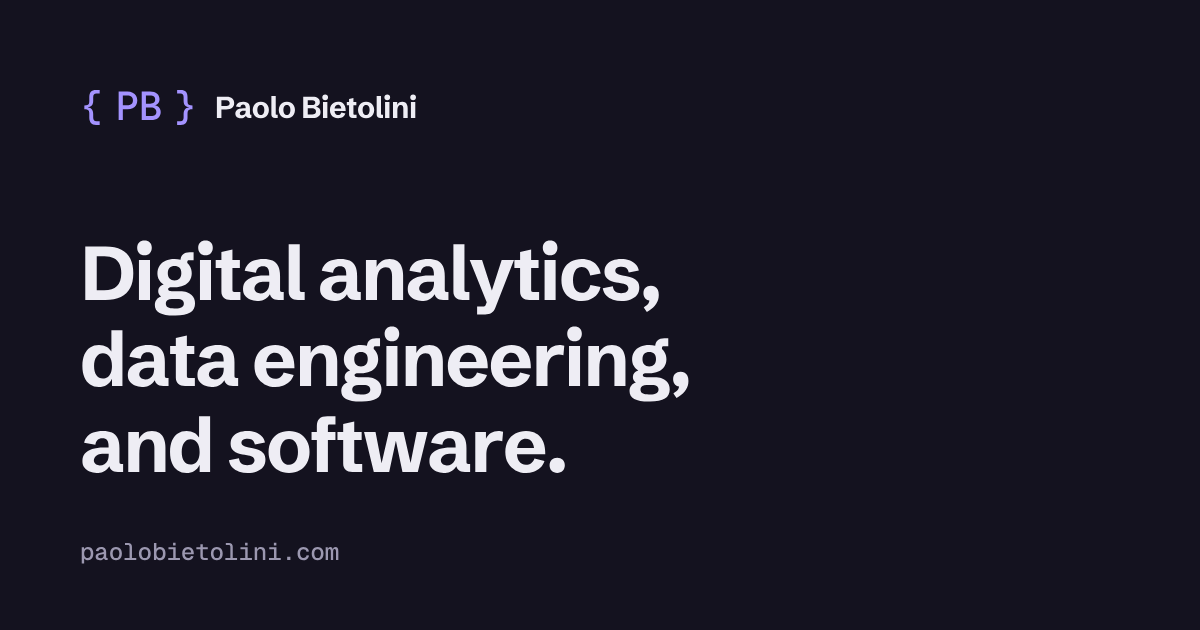
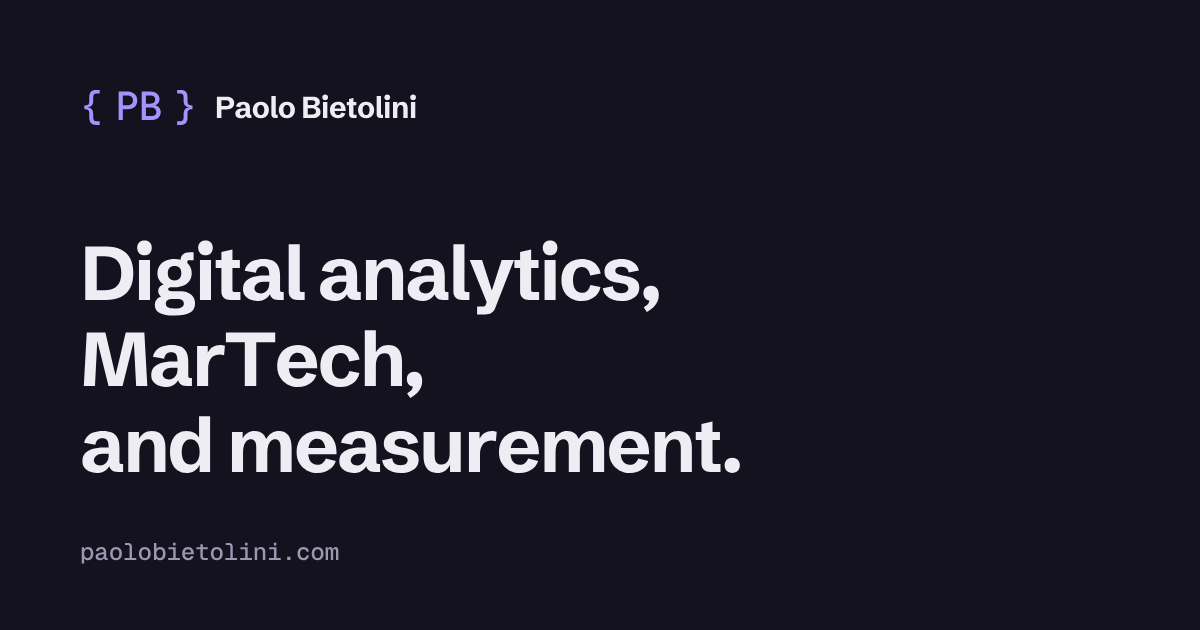
Add design

Changed region(s): [[0.0617, 0.5127, 0.5858, 0.6333], [0.185, 0.6635, 0.6167, 0.754]]

diff --git a/brand/BRAND.md b/brand/BRAND.md
@@ -2,6 +2,7 @@
 
 Identity name: **Braces**, v1 (October 2026).
 Personality: technical, minimal, trustworthy.
+Positioning line: **Digital analytics · MarTech · Measurement** (mono eyebrow form: `digital analytics · martech · measurement`).
 Audience: freelance clients and fellow engineers and analysts.
 
 This is the reference for anyone, human or AI, building on paolobietolini.com. Tokens live in `tokens.css`. Logo files are in `logo/`. Web assets are in `public/`.
@@ -94,6 +95,16 @@ Prose max width: 68ch. Dates use ISO format in mono: `2026-08-03 · C · 8 min`.
 
 Plain, specific, first person. Explain how things work underneath rather than which button to click. Bilingual: English and Italian, one language per post.
 
+## Integrating in this repo (Astro)
+
+The repo is the Astro "basics" starter (Astro 7, `@astrojs/sitemap`).
+
+1. Copy `brand/public/*` into `public/`, overwriting the starter `favicon.ico` and `favicon.svg`.
+2. Import the tokens once in `src/layouts/Layout.astro` frontmatter: `import '../../brand/tokens.css';`
+3. Add the `<head>` tags below to `Layout.astro`.
+4. Delete the starter `src/assets/astro.svg`, `src/assets/background.svg` and `src/components/Welcome.astro`.
+5. For per-post social images, see "Social preview" below.
+
 ## Web assets (`public/`)
 
 Copy the contents of `brand/public/` into the Astro `public/` folder, then add this to the base layout `<head>`:
@@ -125,6 +136,7 @@ Copy the contents of `brand/public/` into the Astro `public/` folder, then add t
 - 1200×630, background `#14121F`.
 - Top-left at (80, 80): symbol 40px in `#A493FF`, then "Paolo Bietolini" sans 700 30px in `#EEEDF4`.
 - Title: sans 700, 76px, -3% tracking, 86px line height, `#EEEDF4`, left 80px, max 3 lines, max width 1040px.
+- Default title: "Digital analytics, / MarTech, / and measurement."
 - Bottom-left at baseline 560: `paolobietolini.com` or the post date in mono 500 24px, `#9C98B0`.
 
 ## Avatar
